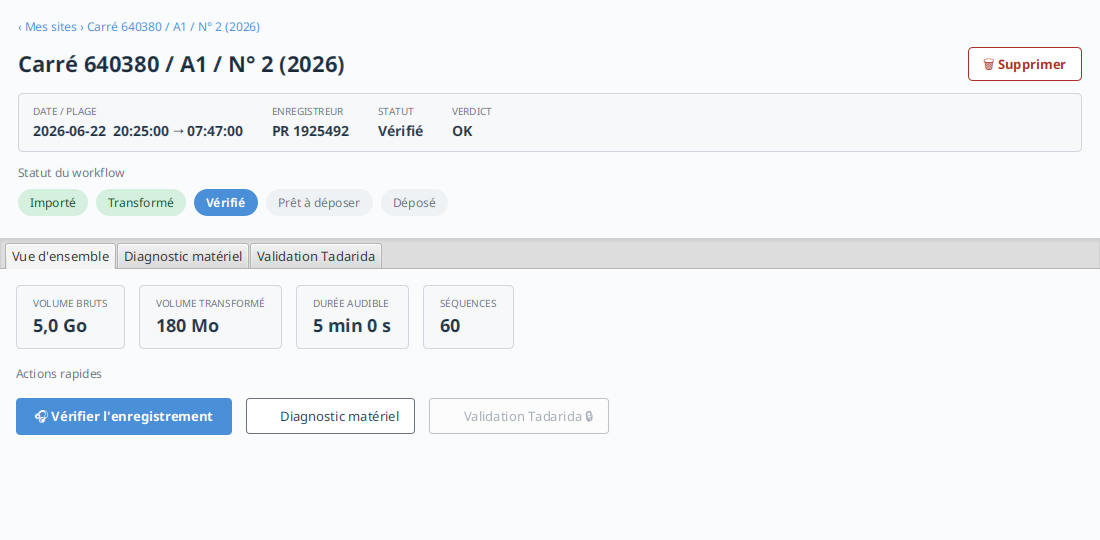
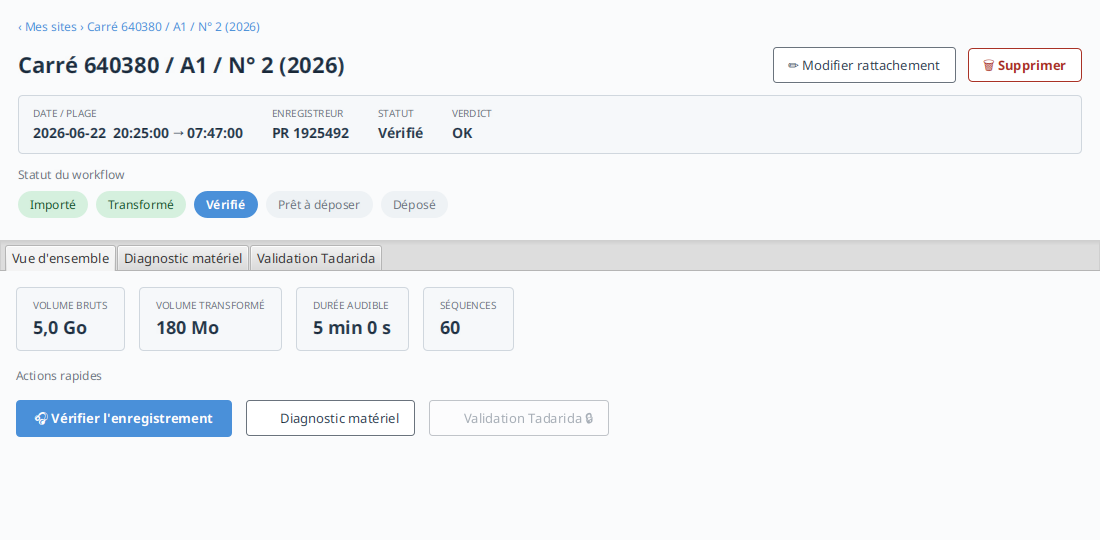
feat(passage): bouton « Modifier rattachement » + ouverture de la modale (E2.S8)
Bouton header « ✏ Modifier rattachement » dans M-Passage →
NavigationPassage.ouvrirModaleRattachement (Stage modal, patron
NavigationSites). PassageController mémorise le ContexteSite (carré/point)
et, au succès, rouvre M-Passage pour refléter le nouveau quadruplet.
Aperçu régénéré (en-tête avec les deux boutons). Clôt PR6/E2.S8.

Changed region(s): [[0.0, 0.0889, 1.0, 0.6519], [0.0, 0.6815, 0.3709, 0.8296], [0.4018, 0.7407, 0.5564, 0.8296]]

diff --git a/src/main/java/fr/univ_amu/iut/passage/view/passage.css b/src/main/java/fr/univ_amu/iut/passage/view/passage.css
@@ -136,3 +136,20 @@
 .bouton-danger:disabled {
   -fx-opacity: 0.45;
 }
+
+/* Modale « Modifier le rattachement » (E2.S8). */
+.modale-rattachement {
+  -fx-background-color: white;
+  -fx-padding: 18;
+}
+
+/* Récapitulatif des conséquences (quadruplet X -> Y, nombre de fichiers). */
+.recap-rattachement {
+  -fx-font-size: 12px;
+  -fx-text-fill: #2c3e50;
+  -fx-background-color: #f1f5f9;
+  -fx-border-color: #cbd5e1;
+  -fx-border-radius: 4;
+  -fx-background-radius: 4;
+  -fx-padding: 10;
+}

diff --git a/src/main/java/fr/univ_amu/iut/passage/view/NavigationPassage.java b/src/main/java/fr/univ_amu/iut/passage/view/NavigationPassage.java
@@ -11,6 +11,10 @@ import java.io.UncheckedIOException;
 import java.util.Objects;
 import javafx.fxml.FXMLLoader;
 import javafx.scene.Parent;
+import javafx.scene.Scene;
+import javafx.stage.Modality;
+import javafx.stage.Stage;
+import javafx.stage.Window;
 
 /// Façade de navigation de la feature `passage` : charge l'écran pivot **M-Passage** pour un
 /// passage donné et l'affiche dans la zone centrale du chrome.
@@ -51,5 +55,28 @@ public class NavigationPassage implements OuvrirPassage {
   /// détruit l'écran courant (ex. suppression du passage). Délègue au socle [Navigateur].
   public void ouvrirAccueil() {
     navigateur.afficherAccueil();
+  }
+
+  /// Ouvre la modale **« Modifier le rattachement »** (E2.S8) dans une fenêtre modale appartenant à
+  /// `parent`. Le carré et le code point (inchangés) sont fournis par M-Passage. Après une
+  /// modification réussie, `apresSucces` est exécuté (rafraîchir l'écran appelant).
+  public void ouvrirModaleRattachement(
+      Window parent, Long idPassage, String carre, String codePoint, Runnable apresSucces) {
+    FXMLLoader loader =
+        new FXMLLoader(NavigationPassage.class.getResource("RattachementModale.fxml"));
+    loader.setControllerFactory(injector::getInstance);
+    try {
+      Parent vue = loader.load();
+      RattachementModaleController controleur = loader.getController();
+      controleur.demarrer(idPassage, carre, codePoint, apresSucces);
+      Stage modale = new Stage();
+      modale.initOwner(parent);
+      modale.initModality(Modality.WINDOW_MODAL);
+      modale.setTitle("Modifier le rattachement");
+      modale.setScene(new Scene(vue));
+      modale.show();
+    } catch (IOException echec) {
+      throw new UncheckedIOException("Chargement FXML impossible : " + loader.getLocation(), echec);
+    }
   }
 }

diff --git a/src/main/java/fr/univ_amu/iut/passage/view/PassageController.java b/src/main/java/fr/univ_amu/iut/passage/view/PassageController.java
@@ -37,6 +37,7 @@ public class PassageController {
   private final OuvrirDiagnostic ouvrirDiagnostic;
   private final NavigationPassage navigation;
   private Long idPassage;
+  private ContexteSite contexte;
 
   @FXML private BorderPane racine;
   @FXML private Label lblFilAriane;
@@ -136,6 +137,7 @@ public class PassageController {
   /// Appelée par [NavigationPassage] après le chargement du FXML.
   public void ouvrirSur(Long idPassage, ContexteSite contexte) {
     this.idPassage = idPassage;
+    this.contexte = contexte;
     viewModel.ouvrirSur(idPassage, contexte);
   }
 
@@ -169,6 +171,19 @@ public class PassageController {
     } catch (RegleMetierException refus) {
       alerteErreur(refus.getMessage());
     }
+  }
+
+  /// « Modifier rattachement » : ouvre la modale E2.S8 (année + n° de passage) en fenêtre modale.
+  /// Après une modification réussie, M-Passage est rouvert sur le passage pour refléter le nouveau
+  /// quadruplet (titre, fil d'Ariane).
+  @FXML
+  private void modifierRattachement() {
+    navigation.ouvrirModaleRattachement(
+        racine.getScene().getWindow(),
+        idPassage,
+        contexte.numeroCarre(),
+        contexte.codePoint(),
+        () -> viewModel.ouvrirSur(idPassage, contexte));
   }
 
   private void majStepper() {

diff --git a/src/test/java/fr/univ_amu/iut/passage/view/PassageViewTest.java b/src/test/java/fr/univ_amu/iut/passage/view/PassageViewTest.java
@@ -154,4 +154,12 @@ class PassageViewTest {
 
     assertThat(supprimer.isDisabled()).isFalse();
   }
+
+  @Test
+  @DisplayName("Le bouton « Modifier rattachement » est présent et actif dans l'en-tête")
+  void bouton_rattachement_present(FxRobot robot) {
+    Button rattachement = robot.lookup("#boutonRattachement").queryAs(Button.class);
+
+    assertThat(rattachement.isDisabled()).isFalse();
+  }
 }